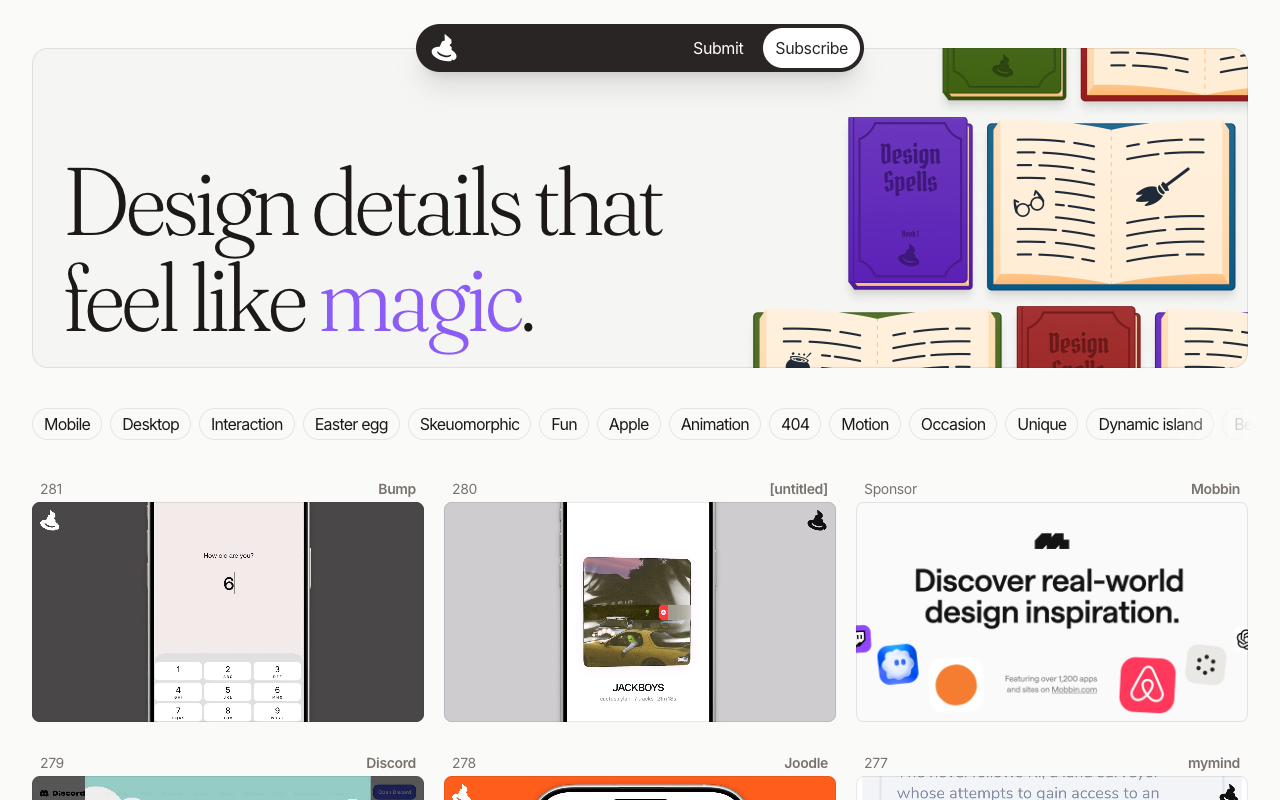
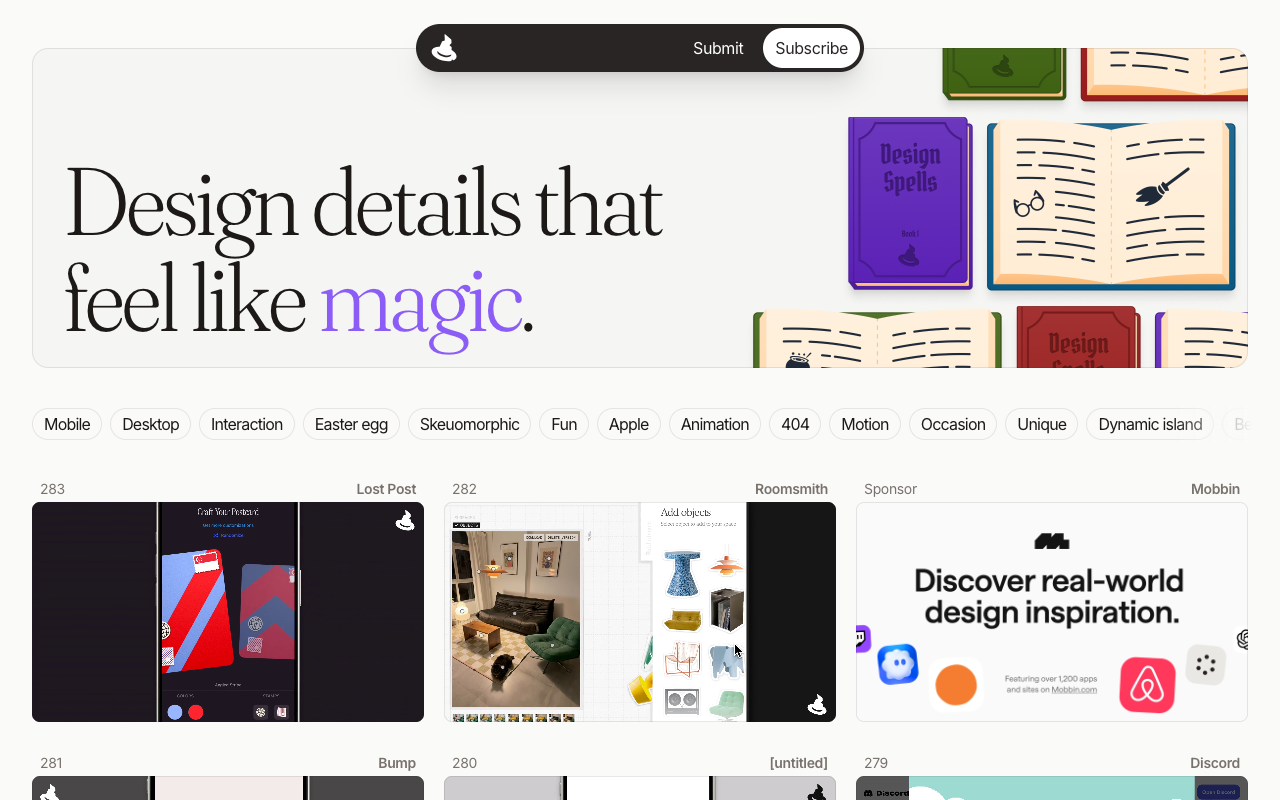
Mobile responsive improvements and new inspiration entries
- Add mobile layout for graphic page (2-col scattered cards with generateMobilePositions)
- Fix create layout: remove min-h-screen, fix map positioning to be inline instead of absolute
- Make inspirations grid 2-col on mobile (sm:grid-cols-4 on desktop)
- Add mobile bottom nav bar to WorkNavigation with back/next buttons
- Hide desktop floating nav buttons on mobile (hidden sm:block)
- Add anime.js, userinterface.wiki, wwdcnotes to inspirations with screenshots
- Update screenshot generation script with new sites

Changed region(s): [[0.0, 0.5938, 0.6562, 0.9062], [0.0312, 0.9375, 1.0, 1.0]]

diff --git a/app/n/works/components/WorkNavigation.tsx b/app/n/works/components/WorkNavigation.tsx
@@ -18,9 +18,39 @@ export default function WorkNavigation() {
 
   return (
     <>
-      {/* Back button - always shows, goes to home */}
+      {/* Mobile: fixed bottom bar with both buttons */}
       <motion.div
-        className="fixed bottom-8 z-40"
+        className="sm:hidden fixed bottom-0 left-0 right-0 z-40 flex items-center justify-between px-6 py-4 bg-white dark:bg-[#1a1a1a] border-t border-gray-100 dark:border-gray-800"
+        initial={{ opacity: 0, y: 20 }}
+        animate={{ opacity: 1, y: 0 }}
+        transition={{ duration: 0.3, delay: 0.2 }}
+      >
+        <Link
+          href="/"
+          className="font-graphik font-semibold flex items-center gap-2 px-5 py-3 bg-[#F8F8F8] dark:bg-gray-800 rounded-full hover:bg-gray-200 dark:hover:bg-gray-700 transition-colors"
+        >
+          <svg width="20" height="8" viewBox="0 0 110 45" fill="none" xmlns="http://www.w3.org/2000/svg" style={{ transform: "scaleX(-1)" }} className="text-gray-500 dark:text-gray-400">
+            <path d="M0.141404 26.7841C-0.175883 25.8765 0.0865962 24.9604 0.47737 24.1132C0.813226 23.3799 1.23495 22.7161 1.67778 22.0449C2.19623 21.2241 2.87883 20.507 3.50467 19.7765C4.09588 19.0961 4.78713 18.485 5.42855 17.8533C6.76775 16.5751 8.03519 15.2271 9.30984 13.8862C9.92277 13.2408 10.5212 12.5673 11.0982 11.8871C11.6337 11.2641 12.1909 10.6761 12.7336 10.06C12.8377 9.92417 12.9418 9.7883 13.0528 9.64525C13.4532 8.97467 13.7397 8.24914 14.2258 7.63389C14.3231 7.51933 14.4276 7.41174 14.5465 7.31808C14.5688 6.90759 14.7255 6.50222 15.0321 6.1866C15.701 5.49798 16.8392 5.47436 17.535 6.15021C17.9941 6.59613 18.4739 7.00637 18.9538 7.43077C19.998 8.23592 21.0351 9.03412 22.1346 9.7536C22.0989 9.73291 22.0705 9.71918 22.0418 9.69131C23.355 10.5208 24.7237 11.2647 26.1406 11.93C27.5785 12.5739 29.0569 13.0898 30.5358 13.6341C31.4022 13.8902 32.2829 14.1461 33.1494 14.4023C33.8454 14.6043 34.5407 14.7639 35.2574 14.9303C35.9954 15.1034 36.7336 15.2907 37.4853 15.4354C38.4639 15.6191 39.4283 15.8031 40.3999 15.9941C41.8956 16.234 43.3842 16.4811 44.8862 16.6714C45.6019 16.7671 46.3247 16.8697 47.0469 16.9299C47.9603 17.0085 48.8665 17.0802 49.7797 17.1447C51.1946 17.1807 52.6025 17.2239 54.0094 17.1964C54.7023 17.1863 55.4024 17.1832 56.0949 17.1449C56.9144 17.0905 57.7341 17.0503 58.5609 17.0029C61.0609 16.7685 63.5389 16.485 66.023 16.1236C67.2368 15.9503 68.4498 15.7205 69.6561 15.512C70.178 15.4196 70.693 15.3343 71.2152 15.256C70.5085 14.3187 69.816 13.3811 69.2354 12.3571C68.807 11.5925 68.3926 10.8135 67.9573 10.0561C67.507 9.24234 67.0217 8.45028 66.5083 7.67277C65.8295 6.70673 65.1091 5.79788 64.3883 4.86074C64.0134 4.37116 63.6599 3.88832 63.32 3.37702C62.9944 2.86551 62.7234 2.22593 62.8136 1.61645C62.917 0.950193 63.3265 0.413844 63.9519 0.143092C64.6407 -0.149797 65.3935 0.0655827 66.0753 0.267822C66.8637 0.503871 67.6318 0.803854 68.4067 1.08253C69.6864 1.54481 70.9727 1.98573 72.28 2.40518C74.1198 2.96538 75.9596 3.52563 77.7723 4.17109C79.585 4.81655 81.3565 5.54745 83.1552 6.20726C84.9257 6.86748 86.7374 7.44225 88.549 8.01701C90.2755 8.56472 91.9949 9.1196 93.7146 9.68863C93.949 9.76301 94.1907 9.84439 94.4251 9.91877C97.6361 10.9187 100.915 11.7479 104.22 12.3646C105.071 12.522 105.914 12.6723 106.772 12.8366C107.382 12.9551 107.985 13.0807 108.493 13.4623C109.237 14.0172 109.485 15.0672 109.165 15.9276C108.859 16.7453 108.275 17.4468 107.691 18.106C107.405 18.4283 107.12 18.7507 106.828 19.0803C106.237 19.7465 105.638 20.42 105.054 21.1074C103.504 22.9474 102.004 24.8361 100.418 26.6413C98.8176 28.4608 97.1171 30.1828 95.5455 32.016C94.4211 33.475 93.3826 35.0035 92.251 36.4555C91.1333 37.8932 89.994 39.2959 88.9835 40.8098C88.5345 41.5447 88.0855 42.2796 87.7007 43.049C87.3091 43.8396 86.3967 44.3197 85.5309 44.106C84.3881 43.8185 83.8775 42.751 83.46 41.7599C82.9692 40.5861 82.5906 39.354 82.1772 38.1578C81.9261 37.426 81.6959 36.6727 81.5365 35.9183C81.3616 35.0793 81.2999 34.2386 81.2451 33.3908C81.2451 33.3908 81.2451 33.3908 81.2523 33.3978C81.2014 32.8186 81.1225 32.2541 81.0294 31.6897C80.6044 32.1272 80.1581 32.558 79.6757 32.9398C78.3125 34.0275 76.8112 34.8555 75.2525 35.6278C75.3227 35.5985 75.3859 35.5622 75.4631 35.5257C74.403 36.0574 73.2988 36.4765 72.1797 36.8393C71.0605 37.2021 69.8756 37.4174 68.719 37.6322C67.5976 37.8395 66.4542 37.9975 65.3324 38.1764C64.2175 38.3482 63.1105 38.5694 61.9965 38.7978C59.6422 39.3271 57.2879 39.8563 54.8946 40.1386C54.577 40.1786 54.2663 40.2114 53.9487 40.2514C53.6242 40.3127 53.2849 40.3176 52.9527 40.3295C52.7408 40.3468 52.5288 40.364 52.3239 40.374C52.204 40.397 52.0698 40.406 51.9353 40.4009C50.3454 40.4876 48.7476 40.5109 47.1505 40.5907C46.3166 40.6311 45.4829 40.6857 44.6486 40.6978C43.5881 40.7132 42.5415 40.7143 41.4803 40.6873C39.6127 40.6437 37.7623 40.3241 35.8998 40.1461C33.9525 39.9693 32.02 39.8348 30.0722 39.6298C28.1741 39.4311 26.2946 39.0553 24.4561 38.5799C23.4978 38.3322 22.56 38.0347 21.6222 37.7372C20.734 37.446 19.8728 37.0695 19.0118 36.7073C17.2331 35.9694 15.4547 35.2456 13.7172 34.4223C12.8485 34.0106 11.9934 33.5705 11.1454 33.1231C10.3828 32.717 9.64091 32.2752 8.87156 31.8903C8.60083 31.7528 8.31596 31.6155 8.04523 31.478C6.3723 30.7174 4.62353 30.0922 3.01248 29.2104C2.6276 29.0039 2.25664 28.783 1.87852 28.5551C1.5002 28.3131 1.12186 28.0711 0.806244 27.7645C0.512557 27.5071 0.2816 27.1852 0.141404 26.7841ZM3.70885 25.5512C4.27961 25.8965 4.86415 26.2134 5.46258 26.5158C7.20663 27.3037 8.9984 27.9707 10.6875 28.8725C12.4052 29.7881 14.1086 30.7039 15.8605 31.5412C17.2129 32.1438 18.5719 32.711 19.9448 33.2639C20.5637 33.5165 21.1828 33.7833 21.8159 34.0358C22.4772 34.2878 23.1383 34.5257 23.8132 34.7351C25.0629 35.0847 26.3053 35.4132 27.5751 35.6846C27.5042 35.6715 27.4263 35.6656 27.3482 35.6455C28.4898 35.8481 29.631 36.0366 30.7854 36.1542C32.039 36.2844 33.2992 36.3793 34.5594 36.4741C35.7275 36.5632 36.9035 36.7017 38.0722 36.8332C39.2197 36.9579 40.3669 37.0686 41.5209 37.1579C42.8862 37.1875 44.2511 37.1889 45.6221 37.1265C47.0849 37.0557 48.5339 36.9993 50.0041 36.9496C50.6049 36.9338 51.2056 36.9039 51.8065 36.8881C52.1522 36.8335 52.5199 36.8282 52.859 36.8091C52.8379 36.8165 52.8166 36.8097 52.7955 36.8171C53.0074 36.7999 53.2335 36.7825 53.4454 36.7653C53.4737 36.7648 53.5019 36.7644 53.53 36.7499C54.3207 36.6535 55.1043 36.5643 55.8874 36.4327C56.6776 36.3081 57.4533 36.1553 58.2361 36.0096C60.0338 35.6228 61.8242 35.2149 63.6298 34.8916C65.4355 34.5684 67.2424 34.3299 69.0479 33.9925C70.0066 33.7805 70.9366 33.5407 71.8868 33.2369C72.5338 32.9871 73.1808 32.7372 73.7987 32.4312C74.1216 32.271 74.4516 32.1036 74.7815 31.9361C74.7113 31.9654 74.6481 32.0017 74.5709 32.0382C75.1953 31.6967 75.7984 31.3485 76.3941 30.9792C76.8563 30.6613 77.304 30.3294 77.7444 29.9765C78.2817 29.4808 78.7693 28.9645 79.2422 28.4202C79.4576 28.1554 79.6799 27.8834 79.8881 27.6117C80.3812 26.9892 80.9238 26.3732 81.7794 26.3678C82.6279 26.3555 83.3212 26.8616 83.6295 27.6351C83.7691 27.9937 83.8666 28.3812 83.964 28.7546C84.2034 29.6563 84.4287 30.5582 84.6045 31.4679C84.7657 32.3354 84.8069 33.2259 84.8621 34.102C84.8611 34.0313 84.8528 33.9536 84.8446 33.8759C84.8789 34.2856 84.9342 34.6879 85.0037 35.09C85.2458 36.1755 85.6219 37.2379 85.9906 38.2792C85.9835 38.2722 85.9833 38.2581 85.9759 38.237C85.9907 38.2792 86.0052 38.3072 86.0128 38.3425C86.0275 38.3847 86.0351 38.4199 86.0568 38.455C86.0493 38.4197 86.0419 38.3986 86.0274 38.3706C86.0645 38.4902 86.1157 38.6097 86.1528 38.7294C86.5054 38.1797 86.8794 37.6368 87.2749 37.1148C88.4411 35.6128 89.6219 34.1388 90.731 32.5952C91.854 31.0372 92.9987 29.5143 94.3077 28.1092C95.6096 26.6971 96.9261 25.3131 98.1921 23.8662C98.1435 23.9305 98.0878 23.9879 98.0393 24.0523C99.1655 22.7205 100.27 21.3679 101.389 20.0292C102.516 18.6974 103.663 17.3866 104.811 16.0758C104.542 16.0231 104.272 15.9846 104.003 15.932C103.067 15.7617 102.138 15.5701 101.209 15.3786C99.435 14.9942 97.6609 14.5674 95.914 14.0695C94.1031 13.5513 92.3121 12.9408 90.5146 12.3659C88.6531 11.7706 86.7919 11.1895 84.9302 10.5801C83.0829 9.98467 81.2767 9.30376 79.4632 8.60174C77.7136 7.92 75.9647 7.28069 74.1883 6.69834C72.6965 6.23915 71.1976 5.77298 69.7054 5.28551C69.4709 5.21113 69.2434 5.12956 69.009 5.05518C69.341 5.51709 69.6519 5.98641 69.97 6.46266C70.5629 7.35924 71.0647 8.30661 71.5805 9.2538C72.0458 10.1239 72.5529 10.9511 73.0812 11.7849C73.6008 12.4987 74.1484 13.1979 74.6749 13.9045C75.1365 14.5201 75.7191 15.1976 75.8224 15.9811C75.8856 16.4327 75.8418 16.8224 75.6426 17.2283C75.4639 17.5845 75.171 17.8716 74.82 18.0465C74.0689 18.4322 73.1928 18.4874 72.3745 18.6266C71.4855 18.7668 70.6039 18.9281 69.7292 19.0823C67.8811 19.4062 66.0188 19.7302 64.148 19.9484C62.2066 20.1817 60.2724 20.422 58.3294 20.5422C57.3826 20.5984 56.4221 20.6831 55.4606 20.6971C54.492 20.7182 53.517 20.7748 52.5476 20.7394C51.5006 20.7122 50.4472 20.7346 49.4063 20.6437C48.3585 20.5599 47.3106 20.4761 46.2628 20.3924C45.9017 20.3623 45.533 20.2969 45.1717 20.2526C44.5339 20.1629 43.8963 20.0873 43.2657 20.0045C42.288 19.8773 41.3307 19.7003 40.3667 19.5446C38.545 19.2529 36.7292 18.8832 34.934 18.4638C34.2599 18.311 33.565 18.1797 32.9045 17.9842C32.1374 17.7549 31.3633 17.5328 30.6034 17.3105C30.0636 17.1486 29.5311 17.0078 28.9979 16.8105C28.1234 16.4908 27.2418 16.1642 26.3673 15.8446C25.7416 15.6132 25.122 15.3181 24.5168 15.037C23.6268 14.6185 22.7576 14.1786 21.902 13.696C20.5615 12.9376 19.2551 12.1009 18.0392 11.1568C17.6244 10.8375 17.2094 10.5041 16.8016 10.1777C16.602 10.5554 16.4237 10.9399 16.1956 11.3038C15.7601 11.9961 15.2242 12.5909 14.6673 13.193C13.6578 14.2897 12.7199 15.4419 11.696 16.5246C10.6583 17.6217 9.62752 18.7116 8.5539 19.7738C8.00306 20.3122 7.43069 20.8297 6.90116 21.3749C6.37859 21.9129 5.87038 22.4648 5.38369 23.0376C5.13388 23.3665 4.89107 23.6883 4.64824 24.0101C4.43327 24.3031 4.24698 24.6241 4.05353 24.938C4.09493 24.8667 4.13653 24.8096 4.17793 24.7382C3.98386 25.0098 3.84635 25.2805 3.70885 25.5512Z" fill="currentColor"/>
+          </svg>
+          <span className="text-sm text-gray-700 dark:text-gray-300">Back</span>
+        </Link>
+        {nextWork && (
+          <Link
+            href={`/n/works/${nextWork.id}`}
+            className="font-graphik font-semibold flex items-center gap-2 px-5 py-3 bg-[#F8F8F8] dark:bg-gray-800 rounded-full hover:bg-gray-200 dark:hover:bg-gray-700 transition-colors"
+          >
+            <span className="text-sm text-gray-700 dark:text-gray-300">Next</span>
+            <svg width="20" height="8" viewBox="0 0 110 45" fill="none" xmlns="http://www.w3.org/2000/svg" className="text-gray-500 dark:text-gray-400">
+              <path d="M0.141404 26.7841C-0.175883 25.8765 0.0865962 24.9604 0.47737 24.1132C0.813226 23.3799 1.23495 22.7161 1.67778 22.0449C2.19623 21.2241 2.87883 20.507 3.50467 19.7765C4.09588 19.0961 4.78713 18.485 5.42855 17.8533C6.76775 16.5751 8.03519 15.2271 9.30984 13.8862C9.92277 13.2408 10.5212 12.5673 11.0982 11.8871C11.6337 11.2641 12.1909 10.6761 12.7336 10.06C12.8377 9.92417 12.9418 9.7883 13.0528 9.64525C13.4532 8.97467 13.7397 8.24914 14.2258 7.63389C14.3231 7.51933 14.4276 7.41174 14.5465 7.31808C14.5688 6.90759 14.7255 6.50222 15.0321 6.1866C15.701 5.49798 16.8392 5.47436 17.535 6.15021C17.9941 6.59613 18.4739 7.00637 18.9538 7.43077C19.998 8.23592 21.0351 9.03412 22.1346 9.7536C22.0989 9.73291 22.0705 9.71918 22.0418 9.69131C23.355 10.5208 24.7237 11.2647 26.1406 11.93C27.5785 12.5739 29.0569 13.0898 30.5358 13.6341C31.4022 13.8902 32.2829 14.1461 33.1494 14.4023C33.8454 14.6043 34.5407 14.7639 35.2574 14.9303C35.9954 15.1034 36.7336 15.2907 37.4853 15.4354C38.4639 15.6191 39.4283 15.8031 40.3999 15.9941C41.8956 16.234 43.3842 16.4811 44.8862 16.6714C45.6019 16.7671 46.3247 16.8697 47.0469 16.9299C47.9603 17.0085 48.8665 17.0802 49.7797 17.1447C51.1946 17.1807 52.6025 17.2239 54.0094 17.1964C54.7023 17.1863 55.4024 17.1832 56.0949 17.1449C56.9144 17.0905 57.7341 17.0503 58.5609 17.0029C61.0609 16.7685 63.5389 16.485 66.023 16.1236C67.2368 15.9503 68.4498 15.7205 69.6561 15.512C70.178 15.4196 70.693 15.3343 71.2152 15.256C70.5085 14.3187 69.816 13.3811 69.2354 12.3571C68.807 11.5925 68.3926 10.8135 67.9573 10.0561C67.507 9.24234 67.0217 8.45028 66.5083 7.67277C65.8295 6.70673 65.1091 5.79788 64.3883 4.86074C64.0134 4.37116 63.6599 3.88832 63.32 3.37702C62.9944 2.86551 62.7234 2.22593 62.8136 1.61645C62.917 0.950193 63.3265 0.413844 63.9519 0.143092C64.6407 -0.149797 65.3935 0.0655827 66.0753 0.267822C66.8637 0.503871 67.6318 0.803854 68.4067 1.08253C69.6864 1.54481 70.9727 1.98573 72.28 2.40518C74.1198 2.96538 75.9596 3.52563 77.7723 4.17109C79.585 4.81655 81.3565 5.54745 83.1552 6.20726C84.9257 6.86748 86.7374 7.44225 88.549 8.01701C90.2755 8.56472 91.9949 9.1196 93.7146 9.68863C93.949 9.76301 94.1907 9.84439 94.4251 9.91877C97.6361 10.9187 100.915 11.7479 104.22 12.3646C105.071 12.522 105.914 12.6723 106.772 12.8366C107.382 12.9551 107.985 13.0807 108.493 13.4623C109.237 14.0172 109.485 15.0672 109.165 15.9276C108.859 16.7453 108.275 17.4468 107.691 18.106C107.405 18.4283 107.12 18.7507 106.828 19.0803C106.237 19.7465 105.638 20.42 105.054 21.1074C103.504 22.9474 102.004 24.8361 100.418 26.6413C98.8176 28.4608 97.1171 30.1828 95.5455 32.016C94.4211 33.475 93.3826 35.0035 92.251 36.4555C91.1333 37.8932 89.994 39.2959 88.9835 40.8098C88.5345 41.5447 88.0855 42.2796 87.7007 43.049C87.3091 43.8396 86.3967 44.3197 85.5309 44.106C84.3881 43.8185 83.8775 42.751 83.46 41.7599C82.9692 40.5861 82.5906 39.354 82.1772 38.1578C81.9261 37.426 81.6959 36.6727 81.5365 35.9183C81.3616 35.0793 81.2999 34.2386 81.2451 33.3908C81.2451 33.3908 81.2451 33.3908 81.2523 33.3978C81.2014 32.8186 81.1225 32.2541 81.0294 31.6897C80.6044 32.1272 80.1581 32.558 79.6757 32.9398C78.3125 34.0275 76.8112 34.8555 75.2525 35.6278C75.3227 35.5985 75.3859 35.5622 75.4631 35.5257C74.403 36.0574 73.2988 36.4765 72.1797 36.8393C71.0605 37.2021 69.8756 37.4174 68.719 37.6322C67.5976 37.8395 66.4542 37.9975 65.3324 38.1764C64.2175 38.3482 63.1105 38.5694 61.9965 38.7978C59.6422 39.3271 57.2879 39.8563 54.8946 40.1386C54.577 40.1786 54.2663 40.2114 53.9487 40.2514C53.6242 40.3127 53.2849 40.3176 52.9527 40.3295C52.7408 40.3468 52.5288 40.364 52.3239 40.374C52.204 40.397 52.0698 40.406 51.9353 40.4009C50.3454 40.4876 48.7476 40.5109 47.1505 40.5907C46.3166 40.6311 45.4829 40.6857 44.6486 40.6978C43.5881 40.7132 42.5415 40.7143 41.4803 40.6873C39.6127 40.6437 37.7623 40.3241 35.8998 40.1461C33.9525 39.9693 32.02 39.8348 30.0722 39.6298C28.1741 39.4311 26.2946 39.0553 24.4561 38.5799C23.4978 38.3322 22.56 38.0347 21.6222 37.7372C20.734 37.446 19.8728 37.0695 19.0118 36.7073C17.2331 35.9694 15.4547 35.2456 13.7172 34.4223C12.8485 34.0106 11.9934 33.5705 11.1454 33.1231C10.3828 32.717 9.64091 32.2752 8.87156 31.8903C8.60083 31.7528 8.31596 31.6155 8.04523 31.478C6.3723 30.7174 4.62353 30.0922 3.01248 29.2104C2.6276 29.0039 2.25664 28.783 1.87852 28.5551C1.5002 28.3131 1.12186 28.0711 0.806244 27.7645C0.512557 27.5071 0.2816 27.1852 0.141404 26.7841ZM3.70885 25.5512C4.27961 25.8965 4.86415 26.2134 5.46258 26.5158C7.20663 27.3037 8.9984 27.9707 10.6875 28.8725C12.4052 29.7881 14.1086 30.7039 15.8605 31.5412C17.2129 32.1438 18.5719 32.711 19.9448 33.2639C20.5637 33.5165 21.1828 33.7833 21.8159 34.0358C22.4772 34.2878 23.1383 34.5257 23.8132 34.7351C25.0629 35.0847 26.3053 35.4132 27.5751 35.6846C27.5042 35.6715 27.4263 35.6656 27.3482 35.6455C28.4898 35.8481 29.631 36.0366 30.7854 36.1542C32.039 36.2844 33.2992 36.3793 34.5594 36.4741C35.7275 36.5632 36.9035 36.7017 38.0722 36.8332C39.2197 36.9579 40.3669 37.0686 41.5209 37.1579C42.8862 37.1875 44.2511 37.1889 45.6221 37.1265C47.0849 37.0557 48.5339 36.9993 50.0041 36.9496C50.6049 36.9338 51.2056 36.9039 51.8065 36.8881C52.1522 36.8335 52.5199 36.8282 52.859 36.8091C52.8379 36.8165 52.8166 36.8097 52.7955 36.8171C53.0074 36.7999 53.2335 36.7825 53.4454 36.7653C53.4737 36.7648 53.5019 36.7644 53.53 36.7499C54.3207 36.6535 55.1043 36.5643 55.8874 36.4327C56.6776 36.3081 57.4533 36.1553 58.2361 36.0096C60.0338 35.6228 61.8242 35.2149 63.6298 34.8916C65.4355 34.5684 67.2424 34.3299 69.0479 33.9925C70.0066 33.7805 70.9366 33.5407 71.8868 33.2369C72.5338 32.9871 73.1808 32.7372 73.7987 32.4312C74.1216 32.271 74.4516 32.1036 74.7815 31.9361C74.7113 31.9654 74.6481 32.0017 74.5709 32.0382C75.1953 31.6967 75.7984 31.3485 76.3941 30.9792C76.8563 30.6613 77.304 30.3294 77.7444 29.9765C78.2817 29.4808 78.7693 28.9645 79.2422 28.4202C79.4576 28.1554 79.6799 27.8834 79.8881 27.6117C80.3812 26.9892 80.9238 26.3732 81.7794 26.3678C82.6279 26.3555 83.3212 26.8616 83.6295 27.6351C83.7691 27.9937 83.8666 28.3812 83.964 28.7546C84.2034 29.6563 84.4287 30.5582 84.6045 31.4679C84.7657 32.3354 84.8069 33.2259 84.8621 34.102C84.8611 34.0313 84.8528 33.9536 84.8446 33.8759C84.8789 34.2856 84.9342 34.6879 85.0037 35.09C85.2458 36.1755 85.6219 37.2379 85.9906 38.2792C85.9835 38.2722 85.9833 38.2581 85.9759 38.237C85.9907 38.2792 86.0052 38.3072 86.0128 38.3425C86.0275 38.3847 86.0351 38.4199 86.0568 38.455C86.0493 38.4197 86.0419 38.3986 86.0274 38.3706C86.0645 38.4902 86.1157 38.6097 86.1528 38.7294C86.5054 38.1797 86.8794 37.6368 87.2749 37.1148C88.4411 35.6128 89.6219 34.1388 90.731 32.5952C91.854 31.0372 92.9987 29.5143 94.3077 28.1092C95.6096 26.6971 96.9261 25.3131 98.1921 23.8662C98.1435 23.9305 98.0878 23.9879 98.0393 24.0523C99.1655 22.7205 100.27 21.3679 101.389 20.0292C102.516 18.6974 103.663 17.3866 104.811 16.0758C104.542 16.0231 104.272 15.9846 104.003 15.932C103.067 15.7617 102.138 15.5701 101.209 15.3786C99.435 14.9942 97.6609 14.5674 95.914 14.0695C94.1031 13.5513 92.3121 12.9408 90.5146 12.3659C88.6531 11.7706 86.7919 11.1895 84.9302 10.5801C83.0829 9.98467 81.2767 9.30376 79.4632 8.60174C77.7136 7.92 75.9647 7.28069 74.1883 6.69834C72.6965 6.23915 71.1976 5.77298 69.7054 5.28551C69.4709 5.21113 69.2434 5.12956 69.009 5.05518C69.341 5.51709 69.6519 5.98641 69.97 6.46266C70.5629 7.35924 71.0647 8.30661 71.5805 9.2538C72.0458 10.1239 72.5529 10.9511 73.0812 11.7849C73.6008 12.4987 74.1484 13.1979 74.6749 13.9045C75.1365 14.5201 75.7191 15.1976 75.8224 15.9811C75.8856 16.4327 75.8418 16.8224 75.6426 17.2283C75.4639 17.5845 75.171 17.8716 74.82 18.0465C74.0689 18.4322 73.1928 18.4874 72.3745 18.6266C71.4855 18.7668 70.6039 18.9281 69.7292 19.0823C67.8811 19.4062 66.0188 19.7302 64.148 19.9484C62.2066 20.1817 60.2724 20.422 58.3294 20.5422C57.3826 20.5984 56.4221 20.6831 55.4606 20.6971C54.492 20.7182 53.517 20.7748 52.5476 20.7394C51.5006 20.7122 50.4472 20.7346 49.4063 20.6437C48.3585 20.5599 47.3106 20.4761 46.2628 20.3924C45.9017 20.3623 45.533 20.2969 45.1717 20.2526C44.5339 20.1629 43.8963 20.0873 43.2657 20.0045C42.288 19.8773 41.3307 19.7003 40.3667 19.5446C38.545 19.2529 36.7292 18.8832 34.934 18.4638C34.2599 18.311 33.565 18.1797 32.9045 17.9842C32.1374 17.7549 31.3633 17.5328 30.6034 17.3105C30.0636 17.1486 29.5311 17.0078 28.9979 16.8105C28.1234 16.4908 27.2418 16.1642 26.3673 15.8446C25.7416 15.6132 25.122 15.3181 24.5168 15.037C23.6268 14.6185 22.7576 14.1786 21.902 13.696C20.5615 12.9376 19.2551 12.1009 18.0392 11.1568C17.6244 10.8375 17.2094 10.5041 16.8016 10.1777C16.602 10.5554 16.4237 10.9399 16.1956 11.3038C15.7601 11.9961 15.2242 12.5909 14.6673 13.193C13.6578 14.2897 12.7199 15.4419 11.696 16.5246C10.6583 17.6217 9.62752 18.7116 8.5539 19.7738C8.00306 20.3122 7.43069 20.8297 6.90116 21.3749C6.37859 21.9129 5.87038 22.4648 5.38369 23.0376C5.13388 23.3665 4.89107 23.6883 4.64824 24.0101C4.43327 24.3031 4.24698 24.6241 4.05353 24.938C4.09493 24.8667 4.13653 24.8096 4.17793 24.7382C3.98386 25.0098 3.84635 25.2805 3.70885 25.5512Z" fill="currentColor"/>
+            </svg>
+          </Link>
+        )}
+        {!nextWork && <div />}
+      </motion.div>
+
+      {/* Desktop: Back button - always shows, goes to home */}
+      <motion.div
+        className="hidden sm:block fixed bottom-8 z-40"
         style={{
           right: 'calc(50% + 372px + 61px)',
         }}
@@ -52,10 +82,10 @@ export default function WorkNavigation() {
         </Link>
       </motion.div>
 
-      {/* Next button - right side of content, only if there's a next project */}
+      {/* Desktop: Next button - right side of content, only if there's a next project */}
       {nextWork && (
         <motion.div
-          className="fixed bottom-8 z-40"
+          className="hidden sm:block fixed bottom-8 z-40"
           style={{
             left: 'calc(50% + 372px + 61px)',
           }}

diff --git a/app/n/create/graphic/page.tsx b/app/n/create/graphic/page.tsx
@@ -1,7 +1,7 @@
 "use client";
 import Image from "next/image";
 import ImageZoom from "../../components/ExpandingImagePreview";
-import { useState, useMemo, useRef } from "react";
+import { useState, useMemo, useRef, useEffect } from "react";
 import { motion } from "framer-motion";
 
 type GraphicItem = {
@@ -87,6 +87,26 @@ const generatePositions = () => {
   ];
 
   return { positions, height: 600 };
+};
+
+// Mobile positions: 2 columns, full card size, with slight rotations and overlaps
+const generateMobilePositions = () => {
+  const positions: {
+    x: number;
+    y: number;
+    rotation: number;
+    zIndex: number;
+  }[] = [
+    { x: 30,   y: 20,  rotation: -4, zIndex: 3 }, // Road trip (left col, row 1)
+    { x: 240, y: 0,   rotation: 5,  zIndex: 2 }, // Stare at time (right col, row 1)
+    { x: 40,  y: 278, rotation: 3,  zIndex: 4 }, // Personal logo (left col, row 2)
+    { x: 230, y: 220, rotation: -4, zIndex: 5 }, // Illustrated recipe (right col, row 2)
+    { x: 40,  y: 500, rotation: -5, zIndex: 7 }, // Broken plate (left col, row 3)
+    { x: 250, y: 490, rotation: 4,  zIndex: 6 }, // Visual diary (right col, row 3)
+    { x: 100,  y: 730, rotation: 2,  zIndex: 8 }, // Human and Saguaro (centered, row 4)
+  ];
+
+  return { positions, height: 900 };
 };
 
 // Draggable card component
@@ -202,8 +222,19 @@ export default function GraphicPage() {
     sourceRect: DOMRect;
     rotation: number;
   } | null>(null);
+  const [isMobile, setIsMobile] = useState(false);
 
-  const { positions, height } = useMemo(() => generatePositions(), []);
+  useEffect(() => {
+    const check = () => setIsMobile(window.innerWidth < 640);
+    check();
+    window.addEventListener('resize', check);
+    return () => window.removeEventListener('resize', check);
+  }, []);
+
+  const { positions, height } = useMemo(
+    () => isMobile ? generateMobilePositions() : generatePositions(),
+    [isMobile]
+  );
 
   const handleDragStart = () => {
     const newZ = highestZ + 1;
@@ -222,7 +253,6 @@ export default function GraphicPage() {
 
   return (
     <>
-      {/* Scattered cards */}
       <motion.div
         className="relative"
         style={{ height }}
@@ -231,15 +261,15 @@ export default function GraphicPage() {
         transition={{ duration: 0.4 }}
       >
         {projects.map((item, index) => (
-          <DraggableCard
-            key={index}
-            item={item}
-            initialPosition={positions[index]}
-            index={index}
-            onDragStart={handleDragStart}
-            onImageClick={(rect, rotation) => handleImageClick(item, rect, rotation)}
-          />
-        ))}
+            <DraggableCard
+              key={index}
+              item={item}
+              initialPosition={positions[index]}
+              index={index}
+              onDragStart={handleDragStart}
+              onImageClick={(rect, rotation) => handleImageClick(item, rect, rotation)}
+            />
+          ))}
       </motion.div>
 
       {/* Image Zoom */}

diff --git a/app/n/create/layout.tsx b/app/n/create/layout.tsx
@@ -1055,19 +1055,19 @@ export default function CreateLayout({
   }, [mapLoaded, pathname]);
 
   return (
-    <div className="min-h-screen bg-white dark:bg-[#1a1a1a]">
+    <div className="bg-white dark:bg-[#1a1a1a]">
       {/* Single main container for tabs and all page content */}
       <div className="main">
         <div className={`relative mt-space-400 ${selectedPin ? 'hidden md:block' : ''}`}>
           {children}
         </div>
-      </div>
 
-      <div className={`absolute top-[290px] left-0 right-0 mx-auto max-w-[866px] px-8 z-0
-        ${pathname !== '/n/create' ? 'opacity-0 pointer-events-none' : 'opacity-100'}
-        ${selectedPin ? 'hidden md:block' : ''}`}>
-          
-        <Map
+        <div className={`mt-space-400 z-0
+          ${pathname !== '/n/create' ? 'hidden' : 'opacity-100'}
+          ${selectedPin ? 'hidden md:block' : ''}`}>
+
+          <div className="overflow-hidden rounded-lg">
+          <Map
           key={isDarkMode ? 'dark' : 'light'}
           {...viewState}
           onMove={evt => setViewState(evt.viewState)}
@@ -1125,7 +1125,9 @@ export default function CreateLayout({
               </div>
             </Marker>
           ))}
-        </Map>
+          </Map>
+          </div>
+        </div>
       </div>
 
       <PhotoCarousel

diff --git a/app/n/inspirations/page.tsx b/app/n/inspirations/page.tsx
@@ -25,6 +25,9 @@ const allItems: ResourceItem[] = [
   { title: 'headless ui', url: 'https://headlessui.com/', image: '/pic/inspirations/headless-ui.png' },
   { title: 'design spells', url: 'https://www.designspells.com/', image: '/pic/inspirations/design-spells.png' },
   { title: 'hyperframer', url: 'https://www.hyperframer.com/', image: '/pic/inspirations/hyperframer.png' },
+  { title: 'anime.js', url: 'https://animejs.com/', image: '/pic/inspirations/animejs.png' },
+  { title: 'userinterface.wiki', url: 'https://www.userinterface.wiki/', image: '/pic/inspirations/userinterface-wiki.png' },
+  { title: 'wwdc notes', url: 'https://wwdcnotes.com/documentation/wwdcnotes/', image: '/pic/inspirations/wwdcnotes.png' },
 ];
 
 // Card component
@@ -78,7 +81,7 @@ export default function InspirationsPage() {
     <div>
       {/* Grid layout - 4 columns */}
       <motion.div
-        className="mt-space-400 grid grid-cols-4 gap-4"
+        className="mt-space-400 grid grid-cols-2 sm:grid-cols-4 gap-4"
         initial={{ opacity: 0 }}
         animate={{ opacity: 1 }}
         transition={{ duration: 0.4 }}

diff --git a/scripts/generate-screenshots.js b/scripts/generate-screenshots.js
@@ -18,6 +18,9 @@ const sites = [
   { name: 'headless-ui', url: 'https://headlessui.com/' },
   { name: 'design-spells', url: 'https://www.designspells.com/' },
   { name: 'hyperframer', url: 'https://www.hyperframer.com/' },
+  { name: 'animejs', url: 'https://animejs.com/' },
+  { name: 'userinterface-wiki', url: 'https://www.userinterface.wiki/' },
+  { name: 'wwdcnotes', url: 'https://wwdcnotes.com/documentation/wwdcnotes/' },
 ];
 
 const OUTPUT_DIR = path.join(__dirname, '../public/pic/inspirations');
